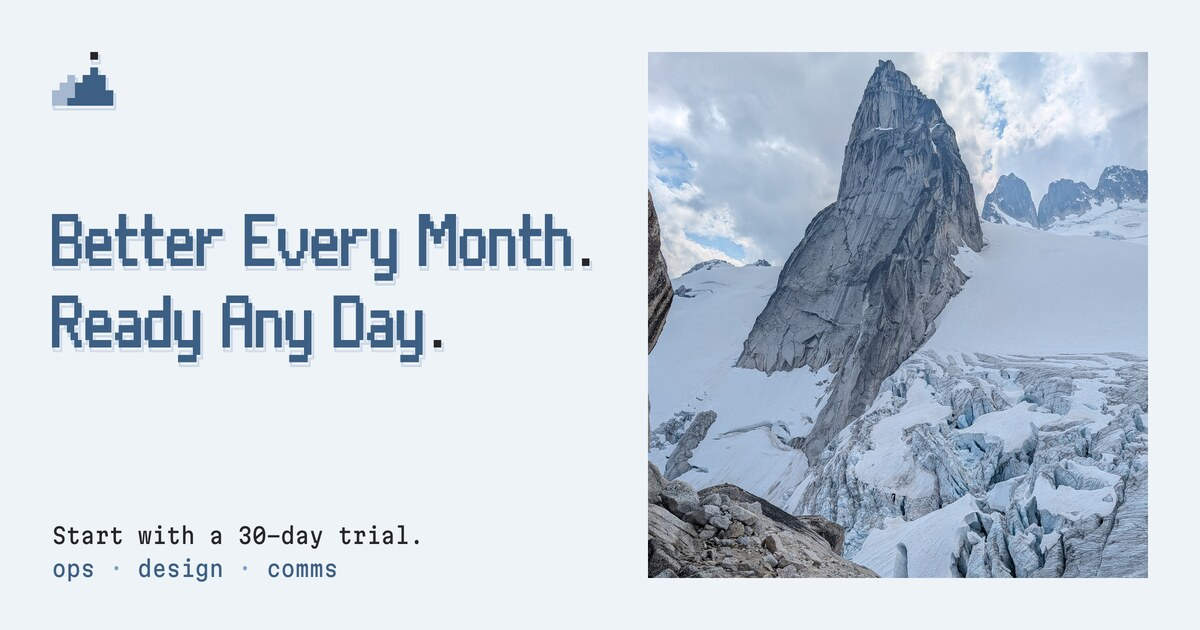
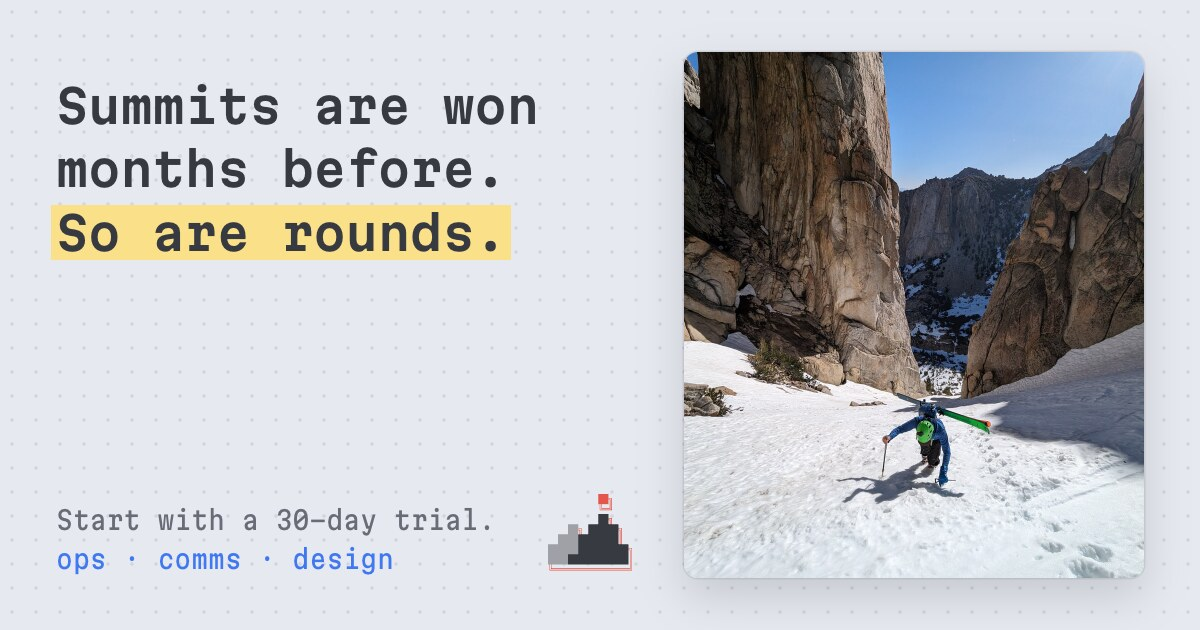
Consulting: share card with the couloir photo
The link preview now carries the poster's hook, "Summits are won months
before. So are rounds.", the trial line and the mark on the dot grid.
Beside them is a photo of a skier booting up a snow couloir.

Claude-Session: https://claude.ai/code/session_01UzJn3vfuMbkMmNPGeQXfR5

diff --git a/consulting/index.html b/consulting/index.html
@@ -15,7 +15,7 @@
   <meta property="og:image" content="https://mgruesbeck.sh/assets/consulting-og.jpg">
   <meta property="og:image:width" content="1200">
   <meta property="og:image:height" content="630">
-  <meta property="og:image:alt" content="Better Every Month. Ready Any Day. Start with a 30-day trial: ops, design, comms. Beside it, a granite spire above a glacier.">
+  <meta property="og:image:alt" content="Summits are won months before. So are rounds. Start with a 30-day trial: ops, comms, design. Beside it, a skier boots up a snow couloir between two granite towers, skis on the pack.">
   <meta name="twitter:card" content="summary_large_image">
   <meta name="theme-color" content="#17191e">
   <link rel="icon" href="../favicon.ico" sizes="48x48">

diff --git a/README.md b/README.md
@@ -21,7 +21,7 @@ with an annotated ski-mountaineering photo whose gear markers link to the
 | `assets/ski-air.jpg`, `assets/mountain-1800.jpg`, `assets/climb-1800.jpg`, `assets/moto-1800.jpg`, `assets/tools-1800.jpg` | Hobby photos linked from the last line of `about.md`. Each `a.ph` link's `href` points at its file; the script loads that `href` into the viewer and reads `data-name` (the title), `data-alt`, `data-cap`, and `data-w`/`data-h` (the file's pixel size, so the viewer takes the photo's own shape without cropping). Without JavaScript the link opens the file directly. Each has an `.avif` twin of the same size in pixels, which the viewer's `<picture>` offers first by swapping the `.jpg` at the end of the `href` for `.avif`. |
 | `assets/fonts/` | Martian Mono, the one typeface, served from this site: `martian-mono-latin.woff2` (one variable file, declared at weight 400 and width 87.5%, and at weight 600 and width 100%) and `martian-mono-latin-ext.woff2` (used by `projects/index.html` only, for accented letters outside Latin-1). The `@font-face` rules sit at the top of each page's `<style>`, and each page preloads the Latin file. `OFL.txt` is the font's licence and stays with the files. |
 | `assets/scramble-og.jpg` | 1200×1200 square crop of the same photo for link previews. Referenced by `og:image` and the JSON-LD `image`. |
-| `assets/consulting-og.jpg` | 1200×630 share card for the consulting page: the motto, "Start with a 30-day trial.", and the mark beside the mountain photo. Referenced by `og:image` in `consulting/index.html`, whose `og:image:width` and `og:image:height` must match it. |
+| `assets/consulting-og.jpg` | 1200×630 share card for the consulting page, drawn after the LinkedIn poster: "Summits are won months before. So are rounds.", "Start with a 30-day trial.", "ops · comms · design" and the mark on the dot grid, beside a photo of a skier booting up a snow couloir between two granite towers. Referenced by `og:image` in `consulting/index.html`, whose `og:image:width` and `og:image:height` must match it. |
 | `CNAME` | The custom domain, `mgruesbeck.sh`, read by GitHub Pages. The domain is registered at Porkbun, where four `A` records point the apex at GitHub Pages and a `CNAME` record points `www` at `mgruesbeck.github.io`. The `canonical`, `og:url` and `og:image` addresses in both pages use this domain. |
 | `favicon.svg` | Site icon, drawn in blocks: a near peak in paper white, a far peak in grey, and a red block above the summit, on a dark tile. Eight blocks across, so each block is two pixels at 16 px. The same drawing, in ink on the page colour, closes the motto in both footers. |
 | `favicon.ico`, `apple-touch-icon.png` | The same icon as a 16/32/48 px ICO for older browsers, and as a 180 px home-screen icon. |
